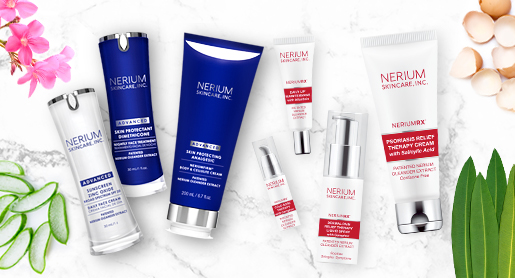
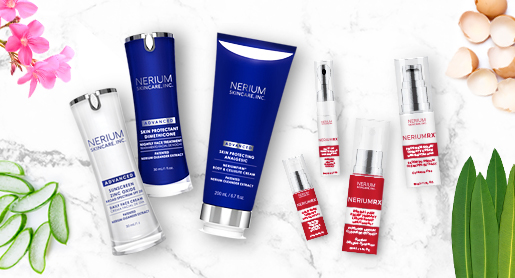
Updated all RX phase I artwork to final phase III

diff --git a/js/independentPages.js b/js/independentPages.js
@@ -215,7 +215,7 @@
         var lgDesktopImg = "";
 
         function bannerInnerHTML(){ document.getElementById("bannerChangeHere").innerHTML = '<img src="../img/'+ mobileImg + '" class="move-center d-block d-sm-block d-md-none" width="100%"/><img src="../img/'+ desktopImg +'" class="move-center d-none d-md-block d-lg-block d-xl-none" width="100%"/><img src="../img/'+ lgDesktopImg +'" class="banner-container move-center d-none d-xl-block" width="100%"/>';
-        }
+        } 
 
         function bannerChange(num){
             if(num == 1){

diff --git a/Therapy-CSduo/index.php b/Therapy-CSduo/index.php
@@ -8,32 +8,32 @@
 
       <div class="col-2 d-flex flex-column"> 
         <div class="p-2 hide-md">
-          <img src="../img/indi-stuff/116x116-Cold-Sore-Lip-Bottle-Carton-Shadow.jpg" class="float-left" onclick="pictureChangeFirstCS()"/>
+          <img src="../img/TL-packaging-web/116x116-Cold-Sore-Lip-Bottle-Carton-Shadow.jpg" class="float-left" onclick="pictureChangeFirstCS()"/>
         </div>
         <div class="p-2 hide-md">
           <img src="../img/indi-stuff/116x116-Cold-Sore-Lip-Smear.jpg" class="float-left" onclick="pictureChangeSecondCS()"/>
         </div>
         <div class="p-2 hide-md">
-          <img src="../img/indi-stuff/116x116-RX-Drug-Facts.jpg.jpg" class="float-left" onclick="pictureChangeThirdCS()"/>
+          <img src="../img/TL-packaging-web/116x116-Cold-Sore-Lip-Drug-Facts-V1.jpg" class="float-left" onclick="pictureChangeThirdCS()"/>
         </div>
       </div>
 
       <div class="col-md-5">
         <div class="d-flex align-items-center indi-display">
-          <img id="indi-display-img" src="../img/TL-packaging-web/Therapy.CS.LM.Dual.Group-SMALL.jpg" class="float-right indi-display-img-cs"/>
+          <img id="indi-display-img" src="../img/TL-packaging-web/1800x2160-Cold-Sore-Lip-Bottle-Carton-Shadow.jpg" class="float-right indi-display-img-cs"/>
         </div>
       </div>
 
       <div class="row show-md mx-auto">
         <div class="col-12 d-flex">
             <div class="p-2">
-              <img src="../img/indi-stuff/116x116-Cold-Sore-Lip-Bottle-Carton-Shadow.jpg" class="indi-pictureChanger" onclick="pictureChangeFirstCS()"/>
+              <img src="../img/TL-packaging-web/116x116-Cold-Sore-Lip-Bottle-Carton-Shadow.jpg" class="indi-pictureChanger" onclick="pictureChangeFirstCS()"/>
             </div>
             <div class="p-2">
               <img src="../img/indi-stuff/116x116-Cold-Sore-Lip-Smear.jpg" class="indi-pictureChanger" onclick="pictureChangeSecondCS()"/>
             </div>
             <div class="p-2">
-              <img src="../img/indi-stuff/116x116-RX-Drug-Facts.jpg.jpg" class="indi-pictureChanger" onclick="pictureChangeThirdCS()"/>
+              <img src="../img/TL-packaging-web/116x116-Cold-Sore-Lip-Drug-Facts-V1.jpg" class="indi-pictureChanger" onclick="pictureChangeThirdCS()"/>
             </div>
         </div>
       </div>
@@ -115,7 +115,7 @@
       <div class="col-md-5 bg-c-grey">
 
         <h2 class="h2-indi move-center">THERAPY COLLECTION</h2>
-        <img src="../img/indi-stuff/385x420-Therapy-Line-Products.png" width="100%"/>
+        <img src="../img/TL-packaging-web/385x420-Therapy-Line-Products.png" width="100%"/>
         <div class="move-center">
           <a href="../Therapy-PS/index.php">
             <button class="shop-btn m-2">Psoriasis Relief Therapy</button>
@@ -191,7 +191,7 @@
           <div class="col-md-5 bg-c-grey">
 
             <h2 class="h2-indi move-center">THERAPY COLLECTION</h2>
-            <img src="../img/indi-stuff/385x420-Therapy-Line-Products.png" width="100%"/>
+            <img src="../img/TL-packaging-web/385x420-Therapy-Line-Products.png" width="100%"/>
             <div class="move-center">
               <a href="../Therapy-PS/index.php">
                 <button class="shop-btn m-2">Psoriasis Relief Therapy</button>
@@ -314,7 +314,7 @@
             <div class="col-12 bg-c-grey">
 
               <h2 class="h2-indi move-center">THERAPY COLLECTION</h2>
-              <img src="../img/indi-stuff/385x420-Therapy-Line-Products.png" width="100%"/>
+              <img src="../img/TL-packaging-web/385x420-Therapy-Line-Products.png" width="100%"/>
               <div class="move-center">
                 <a href="../Therapy-PS/index.php">
                   <button class="shop-btn m-2">Psoriasis Relief Therapy</button>
@@ -419,7 +419,7 @@
               <div class="col-12 bg-c-grey">
 
                 <h2 class="h2-indi move-center">THERAPY COLLECTION</h2>
-                <img src="../img/indi-stuff/385x420-Therapy-Line-Products.png" width="100%"/>
+                <img src="../img/TL-packaging-web/385x420-Therapy-Line-Products.png" width="100%"/>
                 <div class="move-center">
                   <a href="../Therapy-PS/index.php">
                     <button class="shop-btn m-2">Psoriasis Relief Therapy</button>

diff --git a/Therapy-Dermal/index.php b/Therapy-Dermal/index.php
@@ -8,32 +8,32 @@
 
       <div class="col-2 d-flex flex-column"> 
         <div class="p-2 hide-md">
-          <img src="../img/indi-stuff/116x116-Dermal-Bottle-Carton-Shadow.jpg" class="float-left" onclick="pictureChangeFirstDermal()"/>
+          <img src="../img/TL-packaging-web/116x116-Dermal-Bottle-Carton-Shadow.jpg" class="float-left" onclick="pictureChangeFirstDermal()"/>
         </div>
         <div class="p-2 hide-md">
           <img src="../img/indi-stuff/116x116-Dermal-Smear.jpg" class="float-left" onclick="pictureChangeSecondDermal()"/>
         </div>
         <div class="p-2 hide-md">
-          <img src="../img/indi-stuff/116x116-RX-Drug-Facts.jpg.jpg" class="float-left" onclick="pictureChangeThirdDermal()"/>
+          <img src="../img/TL-packaging-web/116x116-Cold-Sore-Lip-Drug-Facts-V1.jpg" class="float-left" onclick="pictureChangeThirdDermal()"/>
         </div>
       </div>
 
       <div class="col-md-5">
         <div class="d-flex align-items-center indi-display">
-          <img id="indi-display-img" src="../img/TL-packaging-web/Therapy.Dermal.Group-SMALL.jpg" class="float-right"/>
+          <img id="indi-display-img" src="../img/TL-packaging-web/1800x2160-Dermal-Bottle-Carton-Shadow.jpg" class="float-right"/>
         </div>
       </div>
 
       <div class="row show-md mx-auto">
         <div class="col-12 d-flex">
             <div class="p-2">
-              <img src="../img/indi-stuff/116x116-Dermal-Bottle-Carton-Shadow.jpg" class="indi-pictureChanger" onclick="pictureChangeFirstDermal()"/>
+              <img src="../img/TL-packaging-web/116x116-Dermal-Bottle-Carton-Shadow.jpg" class="indi-pictureChanger" onclick="pictureChangeFirstDermal()"/>
             </div>
             <div class="p-2">
               <img src="../img/indi-stuff/116x116-Dermal-Smear.jpg" class="indi-pictureChanger" onclick="pictureChangeSecondDermal()"/>
             </div>
             <div class="p-2">
-              <img src="../img/indi-stuff/116x116-RX-Drug-Facts.jpg.jpg" class="indi-pictureChanger" onclick="pictureChangeThirdDermal()"/>
+              <img src="../img/TL-packaging-web/116x116-Cold-Sore-Lip-Drug-Facts-V1.jpg" class="indi-pictureChanger" onclick="pictureChangeThirdDermal()"/>
             </div>
         </div>
       </div>
@@ -100,7 +100,7 @@
       <div class="col-md-5 bg-c-grey">
 
         <h2 class="h2-indi move-center">THERAPY COLLECTION</h2>
-        <img src="../img/indi-stuff/385x420-Therapy-Line-Products.png" width="100%"/>
+        <img src="../img/TL-packaging-web/385x420-Therapy-Line-Products.png" width="100%"/>
         <div class="move-center">
           <a href="../Therapy-CSduo/index.php">
             <button class="shop-btn m-2">Cold Sore Dual Treatment</button>  
@@ -189,7 +189,7 @@
           <div class="col-md-5 bg-c-grey">
 
             <h2 class="h2-indi move-center">THERAPY COLLECTION</h2>
-            <img src="../img/indi-stuff/385x420-Therapy-Line-Products.png" width="100%"/>
+            <img src="../img/TL-packaging-web/385x420-Therapy-Line-Products.png" width="100%"/>
             <div class="move-center">
               <a href="../Therapy-CSduo/index.php">
                 <button class="shop-btn m-2">Cold Sore Dual Treatment</button>  
@@ -269,7 +269,7 @@
             <div class="col-12 bg-c-grey">
 
               <h2 class="h2-indi move-center">THERAPY COLLECTION</h2>
-              <img src="../img/indi-stuff/385x420-Therapy-Line-Products.png" width="100%"/>
+              <img src="../img/TL-packaging-web/385x420-Therapy-Line-Products.png" width="100%"/>
               <div class="move-center">
                 <a href="../Therapy-CSduo/index.php">
                   <button class="shop-btn m-2">Cold Sore Dual Treatment</button>  
@@ -387,7 +387,7 @@
               <div class="col-12 bg-c-grey">
 
                 <h2 class="h2-indi move-center">THERAPY COLLECTION</h2>
-                <img src="../img/indi-stuff/385x420-Therapy-Line-Products.png" width="100%"/>
+                <img src="../img/TL-packaging-web/385x420-Therapy-Line-Products.png" width="100%"/>
                 <div class="move-center">
                   <a href="../Therapy-CSduo/index.php">
                     <button class="shop-btn m-2">Cold Sore Dual Treatment</button>  

diff --git a/Therapy-PS/index.php b/Therapy-PS/index.php
@@ -8,32 +8,32 @@
 
       <div class="col-2 d-flex flex-column"> 
         <div class="p-2 hide-md">
-          <img src="../img/indi-stuff/116x116-Psoriasis-Bottle-Carton-Shadow.jpg" class="float-left" onclick="pictureChangeFirstPS()"/>
+          <img src="../img/TL-packaging-web/116x116-Psoriasis-Bottle-Carton-Shadow.jpg" class="float-left" onclick="pictureChangeFirstPS()"/>
         </div>
         <div class="p-2 hide-md">
           <img src="../img/indi-stuff/116x116-Psoriasis-Smear.jpg" class="float-left" onclick="pictureChangeSecondPS()"/>
         </div>
         <div class="p-2 hide-md">
-          <img src="../img/indi-stuff/116x116-RX-Drug-Facts.jpg.jpg" class="float-left" onclick="pictureChangeThirdPS()"/>
+          <img src="../img/TL-packaging-web/116x116-Cold-Sore-Lip-Drug-Facts-V1.jpg" class="float-left" onclick="pictureChangeThirdPS()"/>
         </div>
       </div>
 
       <div class="col-md-5">
         <div class="d-flex align-items-center indi-display">
-          <img id="indi-display-img" src="../img/TL-packaging-web/Therapy.Psoriasis.Group-WithBox-SMALL.jpg" class="float-right"/>
+          <img id="indi-display-img" src="../img/TL-packaging-web/1800x2160-Psoriasis-Bottle-Carton-Shadow.jpg" class="float-right"/>
         </div>
       </div>
 
       <div class="row show-md mx-auto">
         <div class="col-12 d-flex">
             <div class="p-2">
-              <img src="../img/indi-stuff/116x116-Psoriasis-Bottle-Carton-Shadow.jpg" class="indi-pictureChanger" onclick="pictureChangeFirstPS()"/>
+              <img src="../img/TL-packaging-web/116x116-Psoriasis-Bottle-Carton-Shadow.jpg" class="indi-pictureChanger" onclick="pictureChangeFirstPS()"/>
             </div>
             <div class="p-2">
               <img src="../img/indi-stuff/116x116-Psoriasis-Smear.jpg" class="indi-pictureChanger" onclick="pictureChangeSecondPS()"/>
             </div>
             <div class="p-2">
-              <img src="../img/indi-stuff/116x116-RX-Drug-Facts.jpg.jpg" class="indi-pictureChanger" onclick="pictureChangeThirdPS()"/>
+              <img src="../img/TL-packaging-web/116x116-Cold-Sore-Lip-Drug-Facts-V1.jpg" class="indi-pictureChanger" onclick="pictureChangeThirdPS()"/>
             </div>
         </div>
       </div>
@@ -98,7 +98,7 @@
       <div class="col-md-5 bg-c-grey">
 
         <h2 class="h2-indi move-center">THERAPY COLLECTION</h2>
-        <img src="../img/indi-stuff/385x420-Therapy-Line-Products.png" width="100%"/>
+        <img src="../img/TL-packaging-web/385x420-Therapy-Line-Products.png" width="100%"/>
         <div class="move-center">
           <a href="../Therapy-CSduo/index.php">
             <button class="shop-btn m-2">Cold Sore Dual Treatment</button>  
@@ -182,7 +182,7 @@
           <div class="col-md-5 bg-c-grey">
 
             <h2 class="h2-indi move-center">THERAPY COLLECTION</h2>
-            <img src="../img/indi-stuff/385x420-Therapy-Line-Products.png" width="100%"/>
+            <img src="../img/TL-packaging-web/385x420-Therapy-Line-Products.png" width="100%"/>
             <div class="move-center">
               <a href="../Therapy-CSduo/index.php">
                 <button class="shop-btn m-2">Cold Sore Dual Treatment</button>  
@@ -281,7 +281,7 @@
             <div class="col-12 bg-c-grey">
 
               <h2 class="h2-indi move-center">THERAPY COLLECTION</h2>
-              <img src="../img/indi-stuff/385x420-Therapy-Line-Products.png" width="100%"/>
+              <img src="../img/TL-packaging-web/385x420-Therapy-Line-Products.png" width="100%"/>
               <div class="move-center">
                 <a href="../Therapy-CSduo/index.php">
                   <button class="shop-btn m-2">Cold Sore Dual Treatment</button>  
@@ -394,7 +394,7 @@
               <div class="col-12 bg-c-grey">
 
                 <h2 class="h2-indi move-center">THERAPY COLLECTION</h2>
-                <img src="../img/indi-stuff/385x420-Therapy-Line-Products.png" width="100%"/>
+                <img src="../img/TL-packaging-web/385x420-Therapy-Line-Products.png" width="100%"/>
                 <div class="move-center">
                   <a href="../Therapy-CSduo/index.php">
                     <button class="shop-btn m-2">Cold Sore Dual Treatment</button>  

diff --git a/SkinHealth/index.php b/SkinHealth/index.php
@@ -3,16 +3,15 @@
   <div class="row">
     <div class="col-12 img-container px-0">
       <!--Mobile Banner-->
-      <img src="../img/515x278-Therapy-Main-Banner-V1.jpg" class="move-center d-block d-sm-block d-md-none" width="100%"/>
+      <img src="../img/515x278-Therapy-Main-Banner-V2.jpg" class="move-center d-block d-sm-block d-md-none" width="100%"/>
       <!--Desktop banner-->
-        <img src="../img/1150x310-Therapy-Main-Banner-V1.jpg" class="move-center d-none d-md-block d-lg-block d-xl-none" width="100%"/>
+        <img src="../img/1150x310-Therapy-Main-Banner-V4.jpg" class="move-center d-none d-md-block d-lg-block d-xl-none" width="100%"/>
       <!--Larger Screen Banner-->
-        <img src="../img/1150x310-Therapy-Main-Banner-V1.jpg" class="banner-container move-center d-none d-xl-block" width="100%"/>
+        <img src="../img/1150x310-Therapy-Main-Banner-V4.jpg" class="banner-container move-center d-none d-xl-block" width="100%"/>
     </div>
   </div>
 
-<div class="container mb-5">
-  <div class="container">
+  <div class="container  mb-5">
         <div class="row">
             <div class="col-12">
                 <h1 class="italiana text-center mt-5"> NERIUMRX THERAPY COLLECTION</h1>
@@ -23,7 +22,7 @@
 
           <div id='product-component-8b4b581f1d5'>
               <a href="../Therapy-PS/index.php">
-                <img src="../img/TL-packaging-web/Therapy.Psoriasis.Group-WithBox-SMALL.jpg" alt="Advanced Nightly Face Treatment" height="300px" class="productImg-responsive"/>
+                <img src="../img/TL-packaging-web/1800x2160-Psoriasis-Bottle-Carton-Shadow.jpg" alt="Psoriasis Relief Therapy" height="300px" class="productImg-responsive"/>
                 <p class="p-index">NERIUMRX <br/>Psoriasis Relief <br/>Therapy</p>
                 <p class="p-index">$39.95</p>
               </a>
@@ -31,7 +30,7 @@
 
             <div id='product-component-2b4f706b88a'>
               <a href="../Therapy-CSduo/index.php">
-                <img src="../img/TL-packaging-web/Therapy.CS.LM.Dual.Group-SMALL.jpg" alt="Advanced Daily Face Cream" height="300px"class="productImg-responsive"/>
+                <img src="../img/TL-packaging-web/1800x2160-Cold-Sore-Lip-Bottle-Carton-Shadow.jpg" alt="Cold Sore Dual Treatment" height="300px"class="productImg-responsive"/>
                 <p class="p-index">NERIUMRX <br/>Cold Sore Dual <br/>Treatment</p>
                 <p class="p-index">$29.95</p>
               </a>
@@ -39,7 +38,7 @@
 
             <div id='product-component-65f42d102d9'>
               <a href="../Therapy-Dermal/index.php">
-                <img src="../img/TL-packaging-web/Therapy.Dermal.Group-SMALL.jpg" alt="Advanced Firming Cream" height="300px"class="productImg-responsive"/>
+                <img src="../img/TL-packaging-web/1800x2160-Dermal-Bottle-Carton-Shadow.jpg" alt="Dermal Pain Relief Therapy" height="300px"class="productImg-responsive"/>
                 <p class="p-index">NERIUMRX <br/>Dermal Pain Relief <br/> &amp; Shingles Support</p>
                 <p class="p-index">$42.95</p>
               </a>
@@ -48,7 +47,6 @@
         </div>
     </div>
   <!--END Container Div-->
-  </div>
 
   <!--Scrips Per Shopify Buy Button-->
   

diff --git a/index.php b/index.php
@@ -61,7 +61,7 @@
 
             <div id='product-component-96b5e16e7e8'>
               <a href="Therapy-Dermal/index.php">
-                <img src="img/TL-packaging-web/Therapy.Dermal.Bottle-SMALL2.jpg" alt="Dermal Pain Relief Therapy" height="300px" class="productImg-responsive"/>
+                <img src="img/TL-packaging-web/1800x2160-Dermal-Bottle.jpg" alt="Dermal Pain Relief Therapy" height="300px" class="productImg-responsive"/>
                 <p class="p-index">NERIUMRX <br/>Dermal Pain Relief <br/> &amp; Shingles Support</p>
                 <p class="p-index">$42.95</p>
               </a>
@@ -69,7 +69,7 @@
 
                 <div id='product-component-c9bdb7359c8'>
               <a href="Therapy-CSduo/index.php">
-                <img src="img/TL-packaging-web/Therapy.CS.LM.Dual.Group-BOTTLES-SMALL.jpg" alt="Cold Sore Dual Treatment" height="300px"class="productImg-responsive"/>
+                <img src="img/TL-packaging-web/1800x2160-Cold-Sore-Lip-Bottle-Shadow.jpg" alt="Cold Sore Dual Treatment" height="300px"class="productImg-responsive"/>
                 <p class="p-index">NERIUMRX <br/>Cold Sore Dual <br/>Treatment</p>
                 <p class="p-index">$29.95</p>
               </a>
@@ -77,7 +77,7 @@
 
               <div id='product-component-c41dd6e7d80'>
               <a href="Therapy-PS/index.php">
-                <img src="img/TL-packaging-web/Therapy.Psoriasis.bottle-SMALL2.jpg" alt="Psoriasis Relief Therapy" height="300px"class="productImg-responsive"/>
+                <img src="img/TL-packaging-web/1800x2160-Psoriasis-Bottle-Shadow.jpg" alt="Psoriasis Relief Therapy" height="300px"class="productImg-responsive"/>
                 <p class="p-index">NERIUMRX <br/>Psoriasis Relief <br/>Therapy</p>
                 <p class="p-index">$39.95</p>
               </a>
@@ -99,9 +99,9 @@
     <!--Call to action images-->
     <div class="container position-relative mb-4">
         <!--Dsktop size therapy line image-->
-        <img src="img/index/1152x584-Main-Page-Therapy-Line-V3.jpg" class="move-center d-none d-md-block d-lg-block" alt="NeriumRX Therapy Line Collection" width="100%">
+        <img src="img/index/1152x584-Main-Page-Therapy-Line-V4.jpg" class="move-center d-none d-md-block d-lg-block" alt="NeriumRX Therapy Line Collection" width="100%">
         <!--Mobile size therapy line image-->
-        <img src="img/index/545x552-Main-Page-Therapy-Line-V3.png" class="move-center d-block d-sm-block d-md-none" alt="NeriumRX Therapy Line Collection" width="100%"/>
+        <img src="img/index/545x552-Main-Page-Therapy-Line-V4.png" class="move-center d-block d-sm-block d-md-none" alt="NeriumRX Therapy Line Collection" width="100%"/>
         
         <div class="img-text-center-right text-center">
           <h1>NERIUMRX THERAPY</h1>

diff --git a/SkinCare/index.php b/SkinCare/index.php
@@ -11,8 +11,7 @@
     </div>
   </div>
 
-<div class="container mb-5">
-  <div class="container">
+  <div class="container mb-5">
         <div class="row">
             <div class="col-12">
                 <h1 class="italiana text-center mt-5"> ADVANCED COLLECTION</h1>
@@ -57,7 +56,6 @@
         </div>
     </div>
   <!--END Container Div-->
-  </div>
 
   <!--Scrips Per Shopify Buy Button-->
       <!--Night cream
